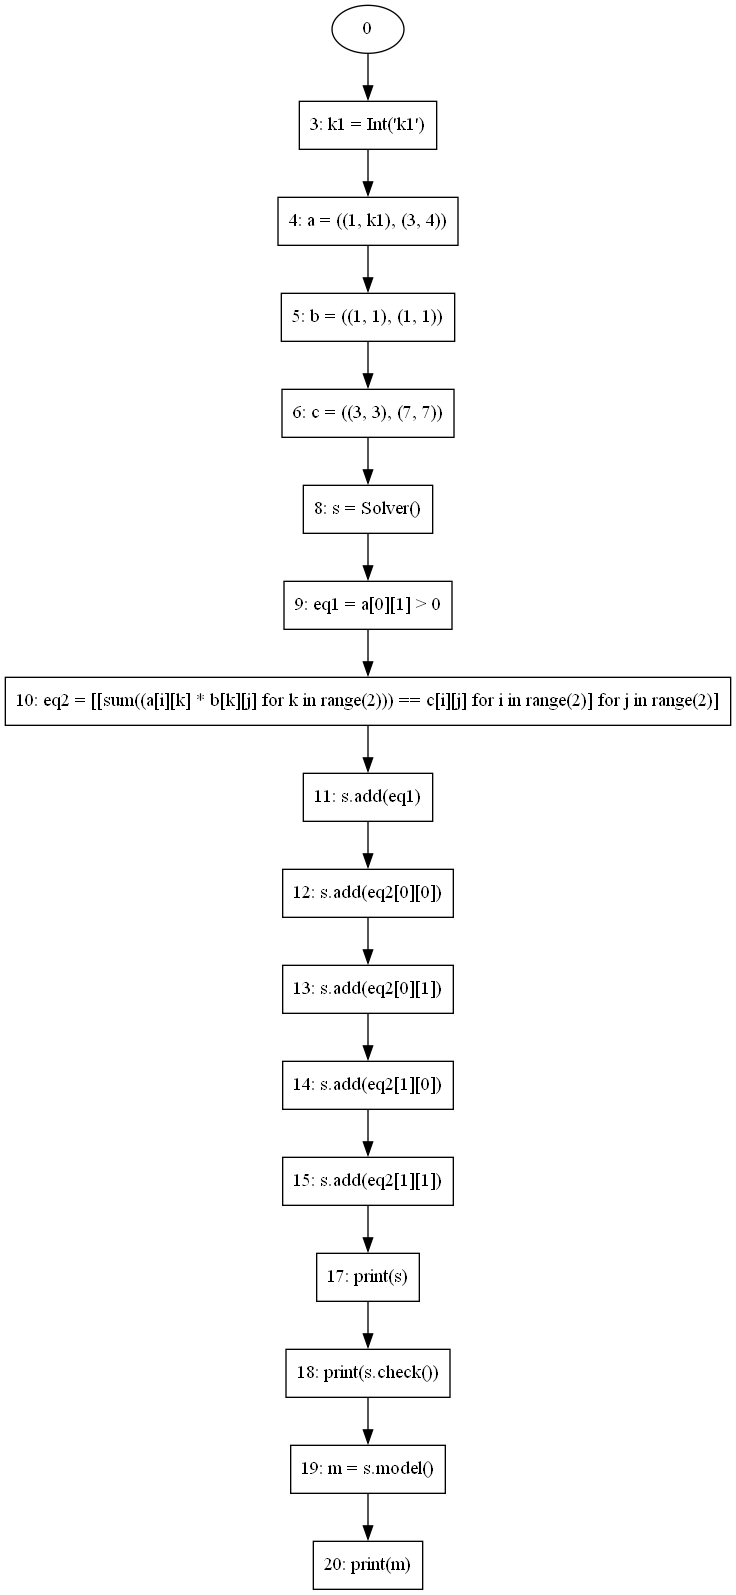
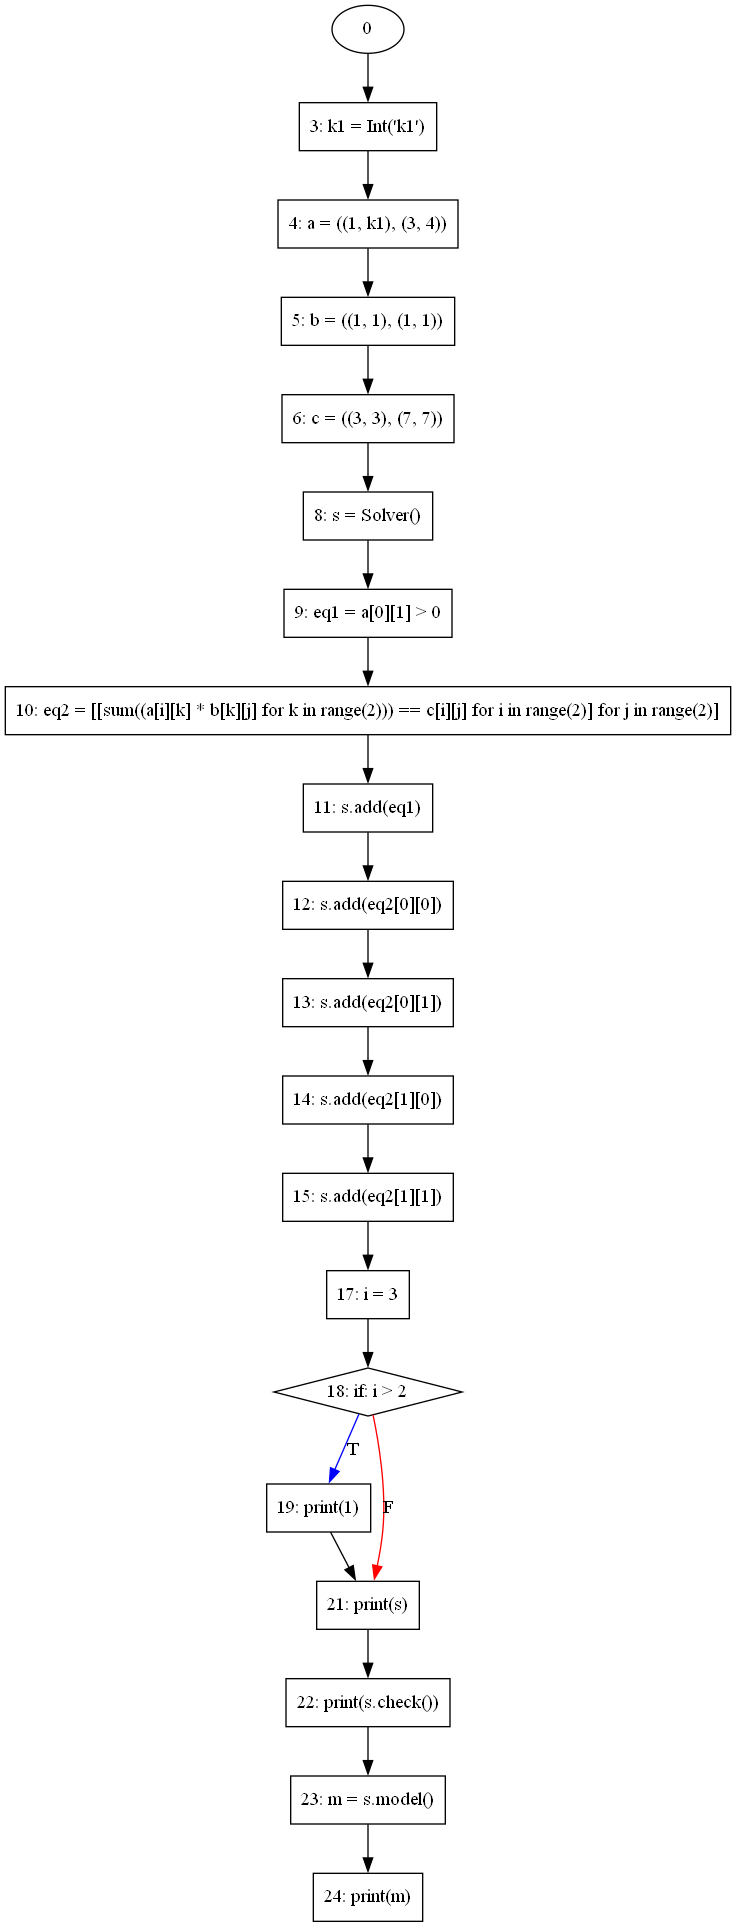
update

diff --git a/graphs/CFG.py b/graphs/CFG.py
@@ -1,4 +1,5 @@
 from utils import *
+from logzero import logger
 
 REGISTRY_IDX = 0
 REGISTRY = {}
@@ -103,6 +104,11 @@ class PyCFG:
 
     def walk(self, node, myparents):
         fname = "on_%s" % node.__class__.__name__.lower()
+        # print(node.__class__.__name__)
+        if node.__class__.__name__ != 'Module':
+            # des = ast.dump(node)
+            logger.debug(ast.dump(node))
+            # logger.warning(node.value)
         if hasattr(self, fname):
             fn = getattr(self, fname)
             v = fn(node, myparents)
@@ -263,6 +269,7 @@ class PyCFG:
             parents=myparents,
             ast=ast.parse(
                 '_if: %s' % ast.unparse(node.test).strip()).body[0])
+        print(node.test)
         ast.copy_location(_test_node.ast_node, node.test)
         test_node = self.walk(node.test, [_test_node])
         assert len(test_node) == 1
@@ -458,6 +465,7 @@ class PyCFG:
         cfg = self.reset()
         cfg.gen_cfg(code)
         cache = dict(REGISTRY)
+        print(cache)
         if remove_start_stop:
             cache = { k: cache[k] for k in cache if cache[k].source() not in {'start', 'stop'} }
             return to_graph(cache, outname)

diff --git a/run.py b/run.py
@@ -1,0 +1,8 @@
+from genGraph import GraphGenerator
+
+if __name__=="__main__":
+
+    source = open("first-quantum.py", "r")
+    code = source.read()
+    generator= GraphGenerator(code, 'graph', 'png')
+    generator.genCFG()

diff --git a/first-quantum.py b/first-quantum.py
@@ -14,6 +14,10 @@ s.add(eq2[0][1])
 s.add(eq2[1][0])
 s.add(eq2[1][1])
 
+i = 3
+if i > 2:
+    print(1)
+
 print(s)
 print(s.check())
 m = s.model()
